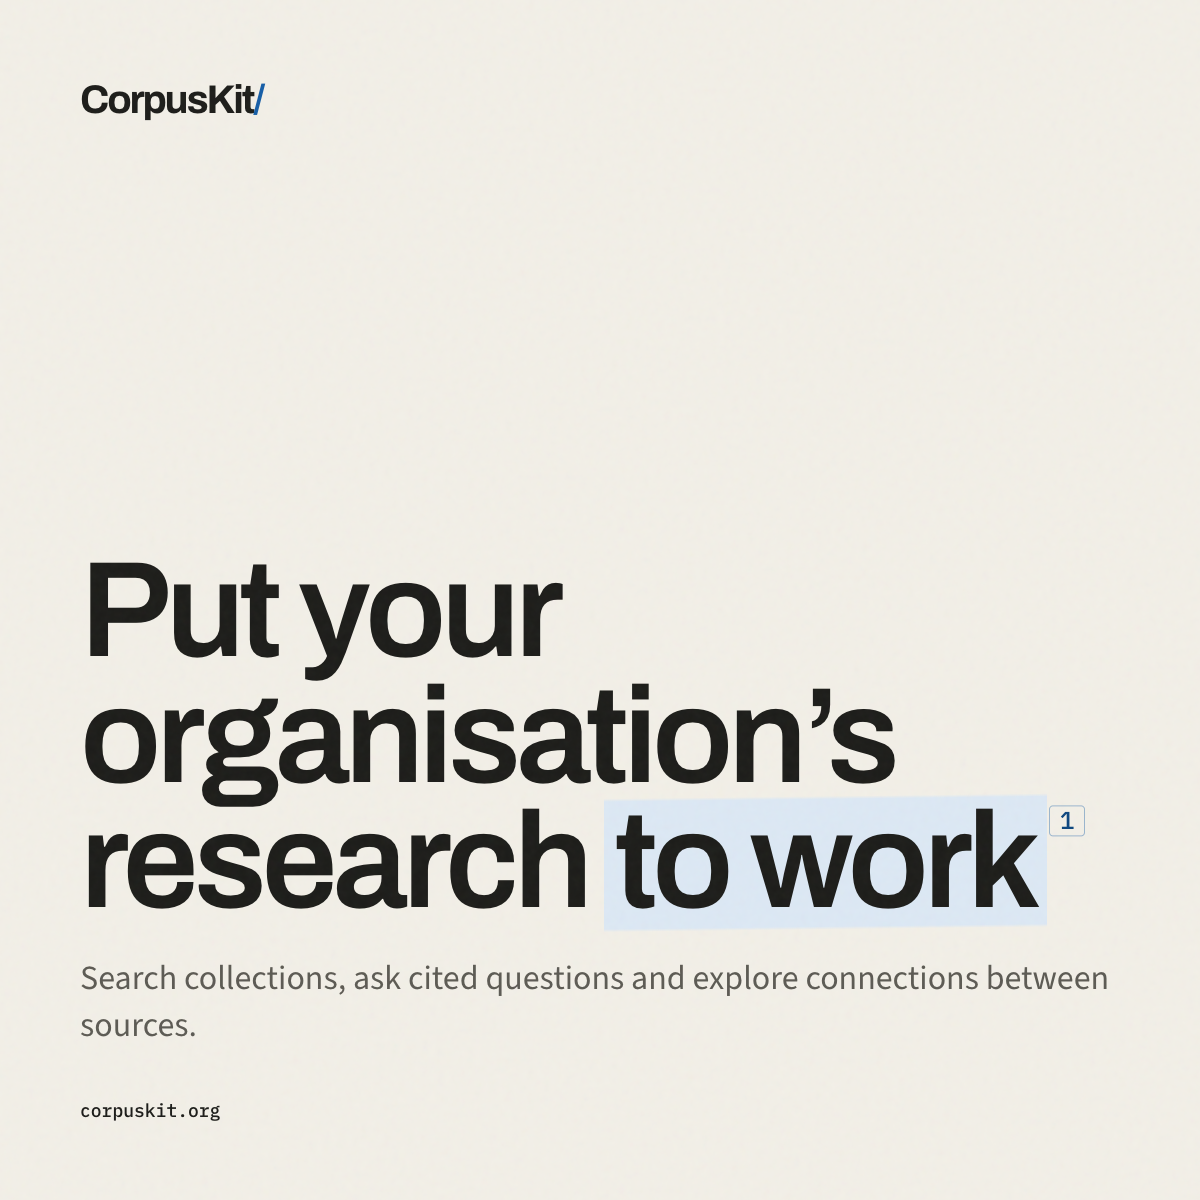
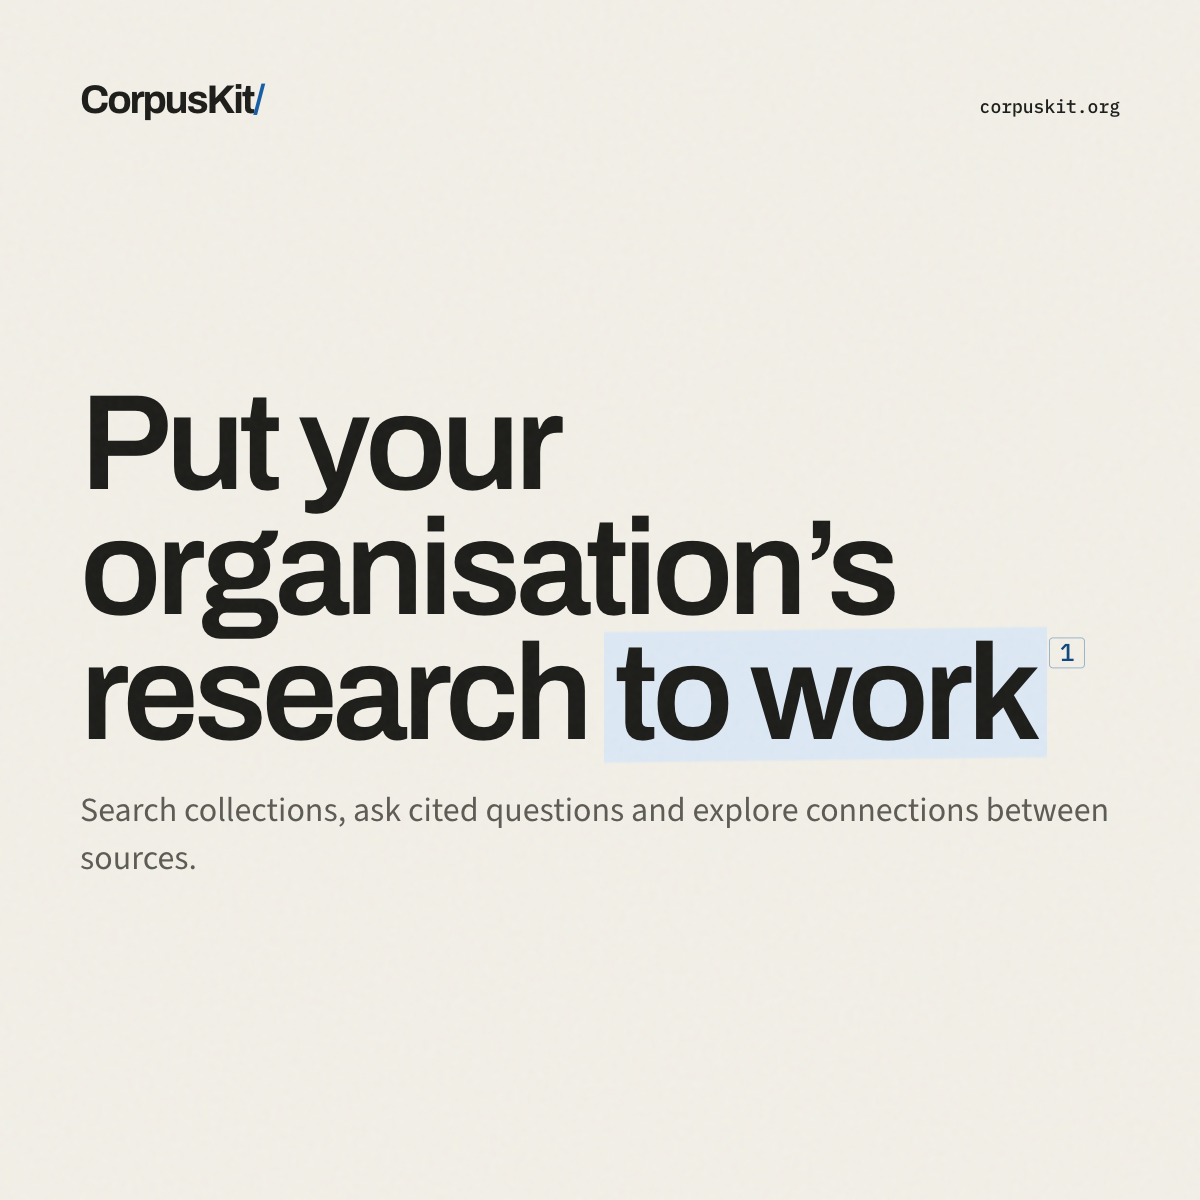
Share cards: domain top-right, content centred beneath the wordmark row
Review note: "corpuskit.org" moves from the bottom-left to the top-right,
mono, on the wordmark's baseline, with a right margin equal to the
wordmark's left margin. With nothing left at the bottom the headline and
its supporting element are centred vertically in the space under the top
row instead of hugging it.

Claude-Session: https://claude.ai/code/session_01PKQGBcEBMQFgG4atjRAYEx

diff --git a/apps/web/scripts/og/cards.ts b/apps/web/scripts/og/cards.ts
@@ -88,9 +88,9 @@ const SHELL_CSS = `
     display: flex;
     flex: 1;
     flex-direction: column;
-    justify-content: flex-end;
+    justify-content: center;
     min-height: 0;
-    margin-top: 36px;
+    margin-top: 24px;
   }
   h1 {
     margin: 0;
@@ -134,8 +134,7 @@ const SHELL_CSS = `
     line-height: 1.4;
   }
   .lede strong { color: var(--ink); font-weight: 600; }
-  .strip {
-    margin-top: 52px;
+  .domain {
     color: var(--ink);
     font-family: var(--mono);
     font-size: 18px;
@@ -281,10 +280,9 @@ html, body { width: ${width}px; height: ${height}px; }
 </html>`
 }
 
-const BRAND = '<div class="brand">CorpusKit<span class="brand-mark">/</span></div>'
-
-/** The only chrome besides the wordmark: the domain, bottom-left. */
-const FOOTER = '<div class="strip">corpuskit.org</div>'
+/** The whole chrome: wordmark top-left, domain top-right, baseline-aligned. */
+const TOP =
+  '<div class="top"><div class="brand">CorpusKit<span class="brand-mark">/</span></div><span class="domain">corpuskit.org</span></div>'
 
 /**
  * The launch card: the hero headline with its highlight and citation, the
@@ -303,11 +301,10 @@ function launch(width: number, height: number, file: string, square = false): Ca
       width,
       height,
       `<div class="card">
-        <div class="top">${BRAND}</div>
+        ${TOP}
         <div class="body">
           <h1>Put your<br>organisation’s<br>research <span class="hl">to work</span><span class="cite">1</span></h1>
           <p class="lede">Search collections, ask cited questions and explore connections between sources.</p>
-          ${FOOTER}
         </div>
       </div>`,
       vars,
@@ -358,13 +355,12 @@ export const POST_CARDS: Card[] = [
   post(
     'posts/02-cited-passages.png',
     `<div class="card">
-      <div class="top">${BRAND}</div>
+      ${TOP}
       <div class="body">
         <h1>Answers cite the<br>material they draw on,<br>down to the <span class="hl">passage</span><span class="cite">1</span></h1>
         <div class="passage">Seagrass recovery was slower where winter turbidity remained above the long-term median.
           <cite>1 &nbsp;Estuary condition report · 2023 · page 14</cite>
         </div>
-        ${FOOTER}
       </div>
     </div>`,
     { '--h1': '80px' },
@@ -373,7 +369,7 @@ export const POST_CARDS: Card[] = [
   post(
     'posts/03-check-the-answer.png',
     `<div class="card">
-      <div class="top">${BRAND}</div>
+      ${TOP}
       <div class="body">
         <div class="two-col">
           <h1>Check the<br>answer<br>against the<br><span class="hl">research</span><span class="cite">1</span></h1>
@@ -384,7 +380,6 @@ export const POST_CARDS: Card[] = [
             <div class="confidence"><strong>High confidence</strong><span>Both claims are directly supported by the cited reports</span></div>
           </div>
         </div>
-        ${FOOTER}
       </div>
     </div>`,
     { '--h1': '82px' },
@@ -393,7 +388,7 @@ export const POST_CARDS: Card[] = [
   post(
     'posts/04-five-views.png',
     `<div class="card">
-      <div class="top">${BRAND}</div>
+      ${TOP}
       <div class="body">
         <h1>Ask. Search. Library.<br>Map. <span class="hl">Manage.</span><span class="cite">1</span></h1>
         <div class="views">
@@ -403,7 +398,6 @@ export const POST_CARDS: Card[] = [
           <div class="view"><div class="t">Map</div><p class="d">Explore connections between sources</p></div>
           <div class="view"><div class="t">Manage</div><p class="d">Configure the portal and its corpus</p></div>
         </div>
-        ${FOOTER}
       </div>
     </div>`,
     { '--h1': '92px' },
@@ -412,7 +406,7 @@ export const POST_CARDS: Card[] = [
   post(
     'posts/05-open-source.png',
     `<div class="card">
-      <div class="top">${BRAND}</div>
+      ${TOP}
       <div class="body">
         <h1>Open source under<br>the <span class="hl">Apache 2.0 licence</span><span class="cite">1</span></h1>
         <div class="views views-3">
@@ -420,7 +414,6 @@ export const POST_CARDS: Card[] = [
           <div class="view"><div class="t">Run CorpusKit</div><p class="d">Connect your research collection and run it on infrastructure you manage</p></div>
           <div class="view"><div class="t">Contribute</div><p class="d">Code, design, documentation, research practice or tests</p></div>
         </div>
-        ${FOOTER}
       </div>
     </div>`,
     { '--h1': '86px' },
